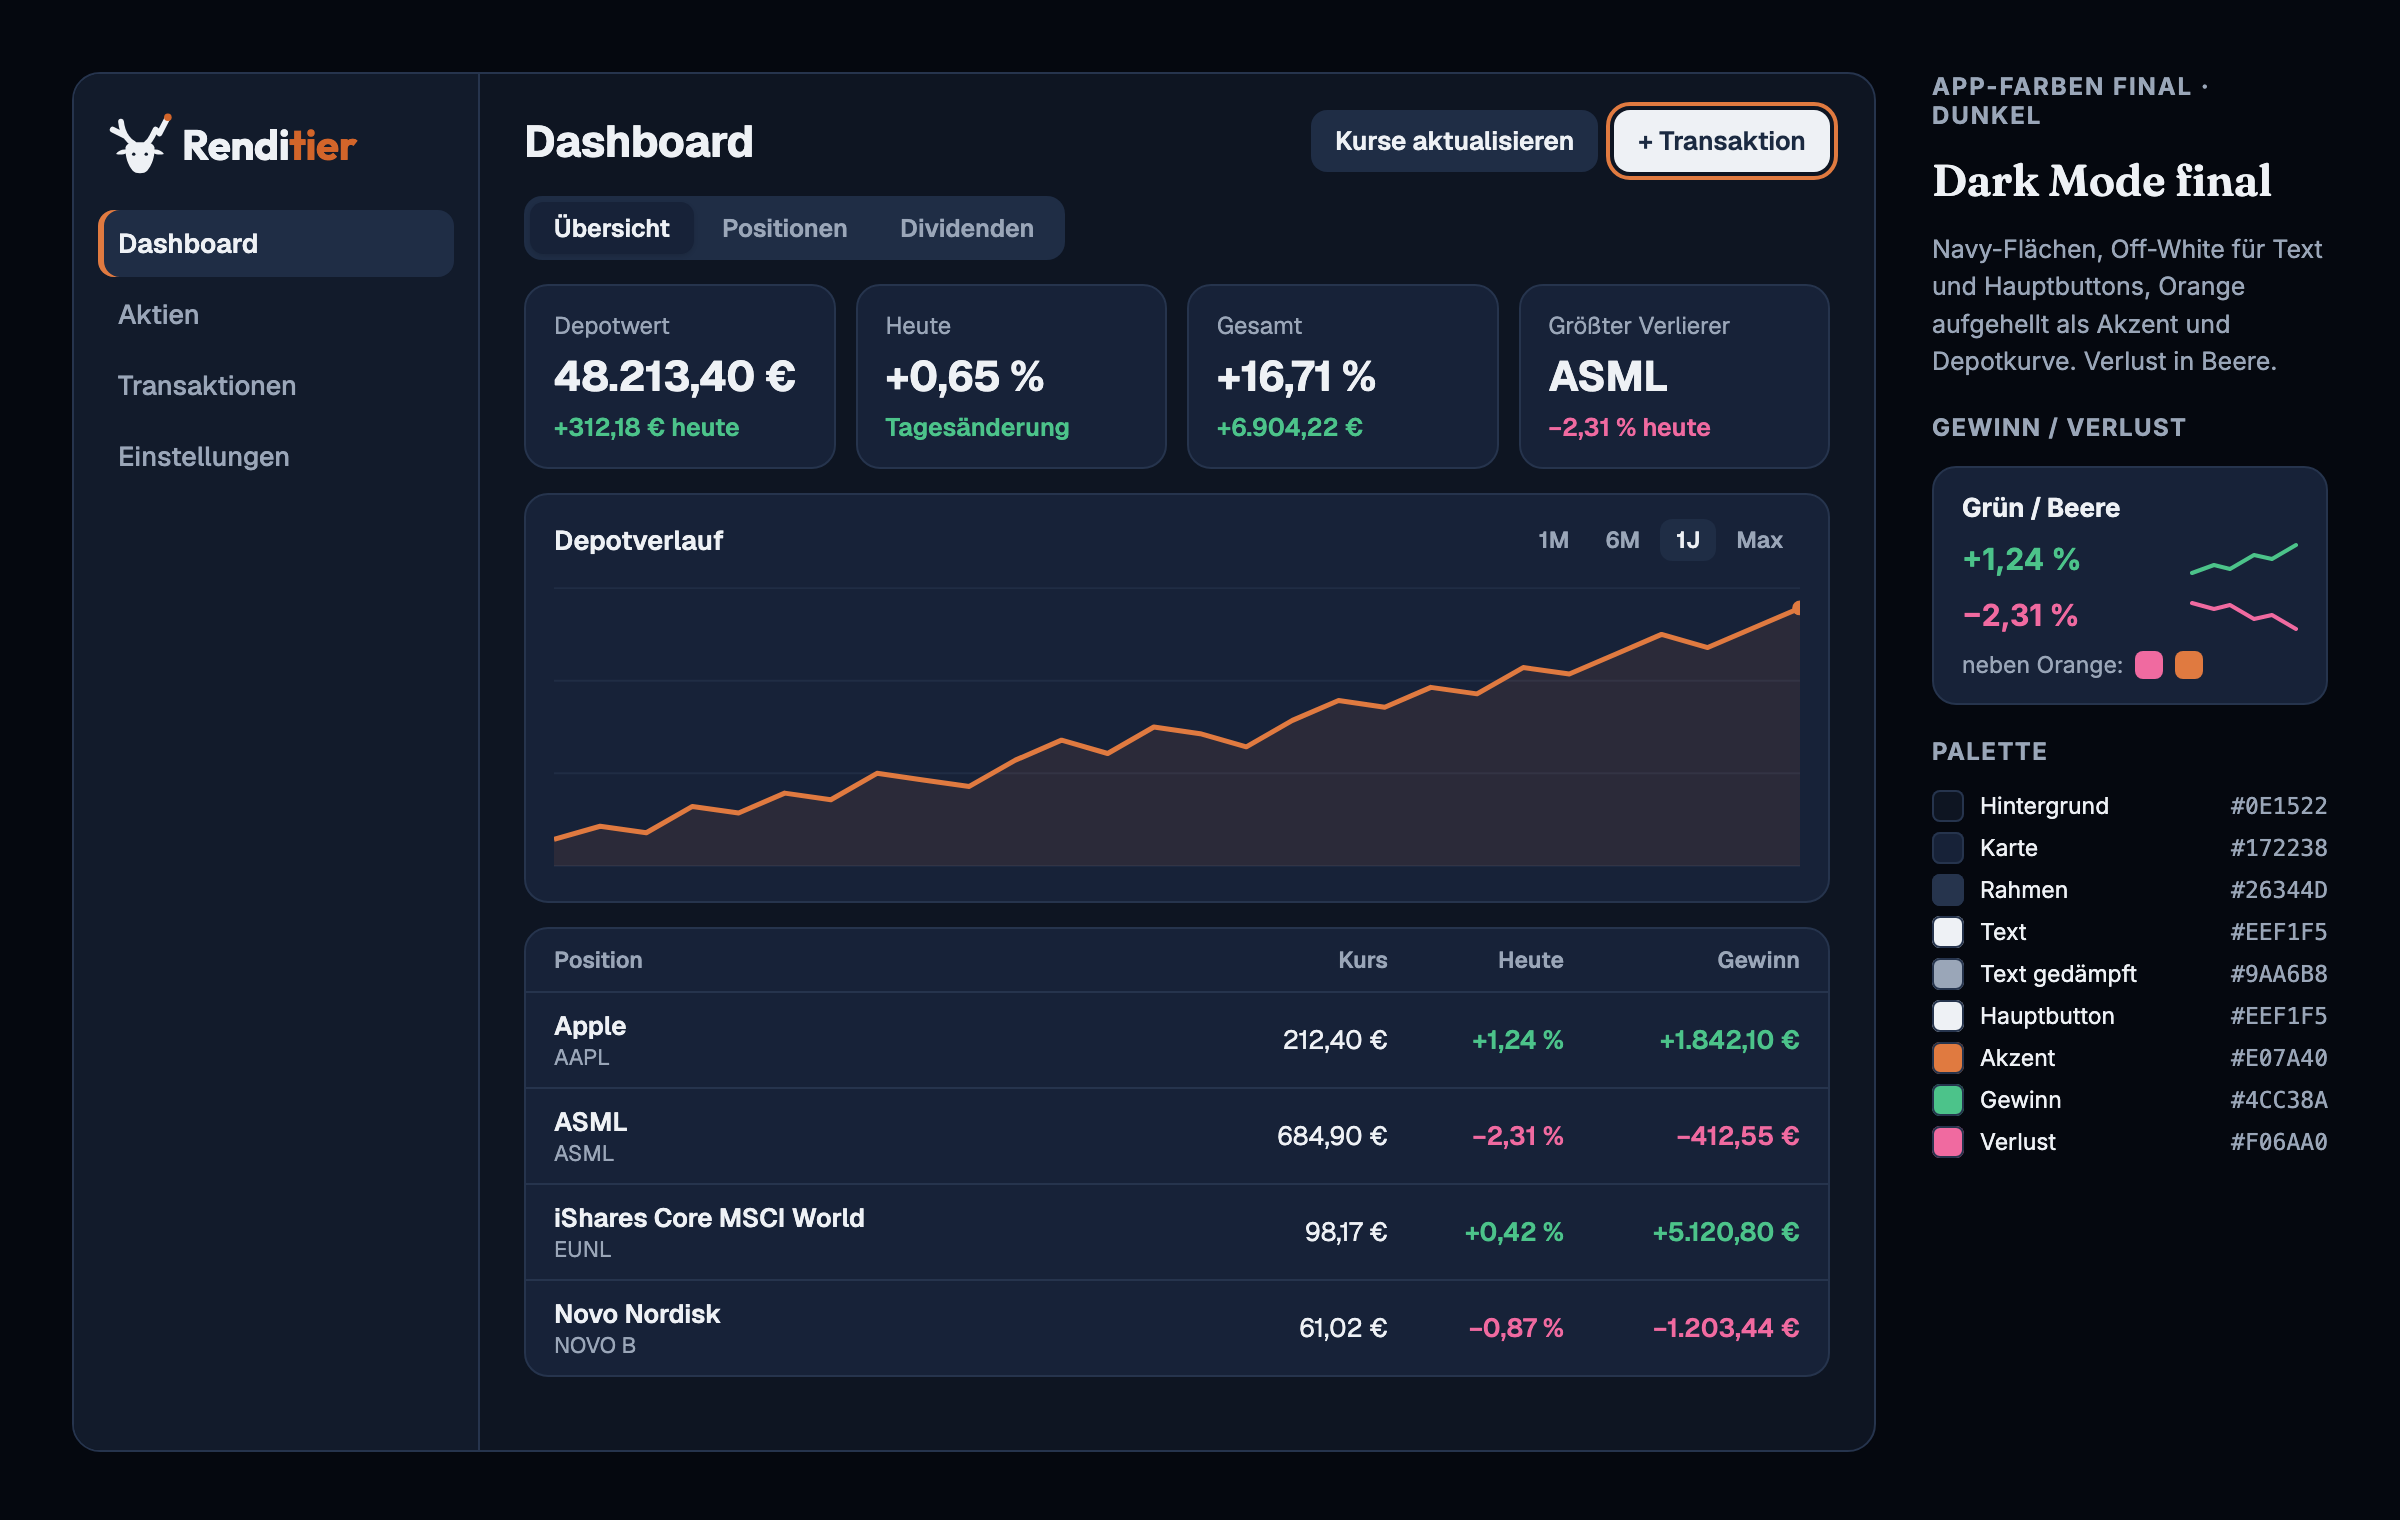
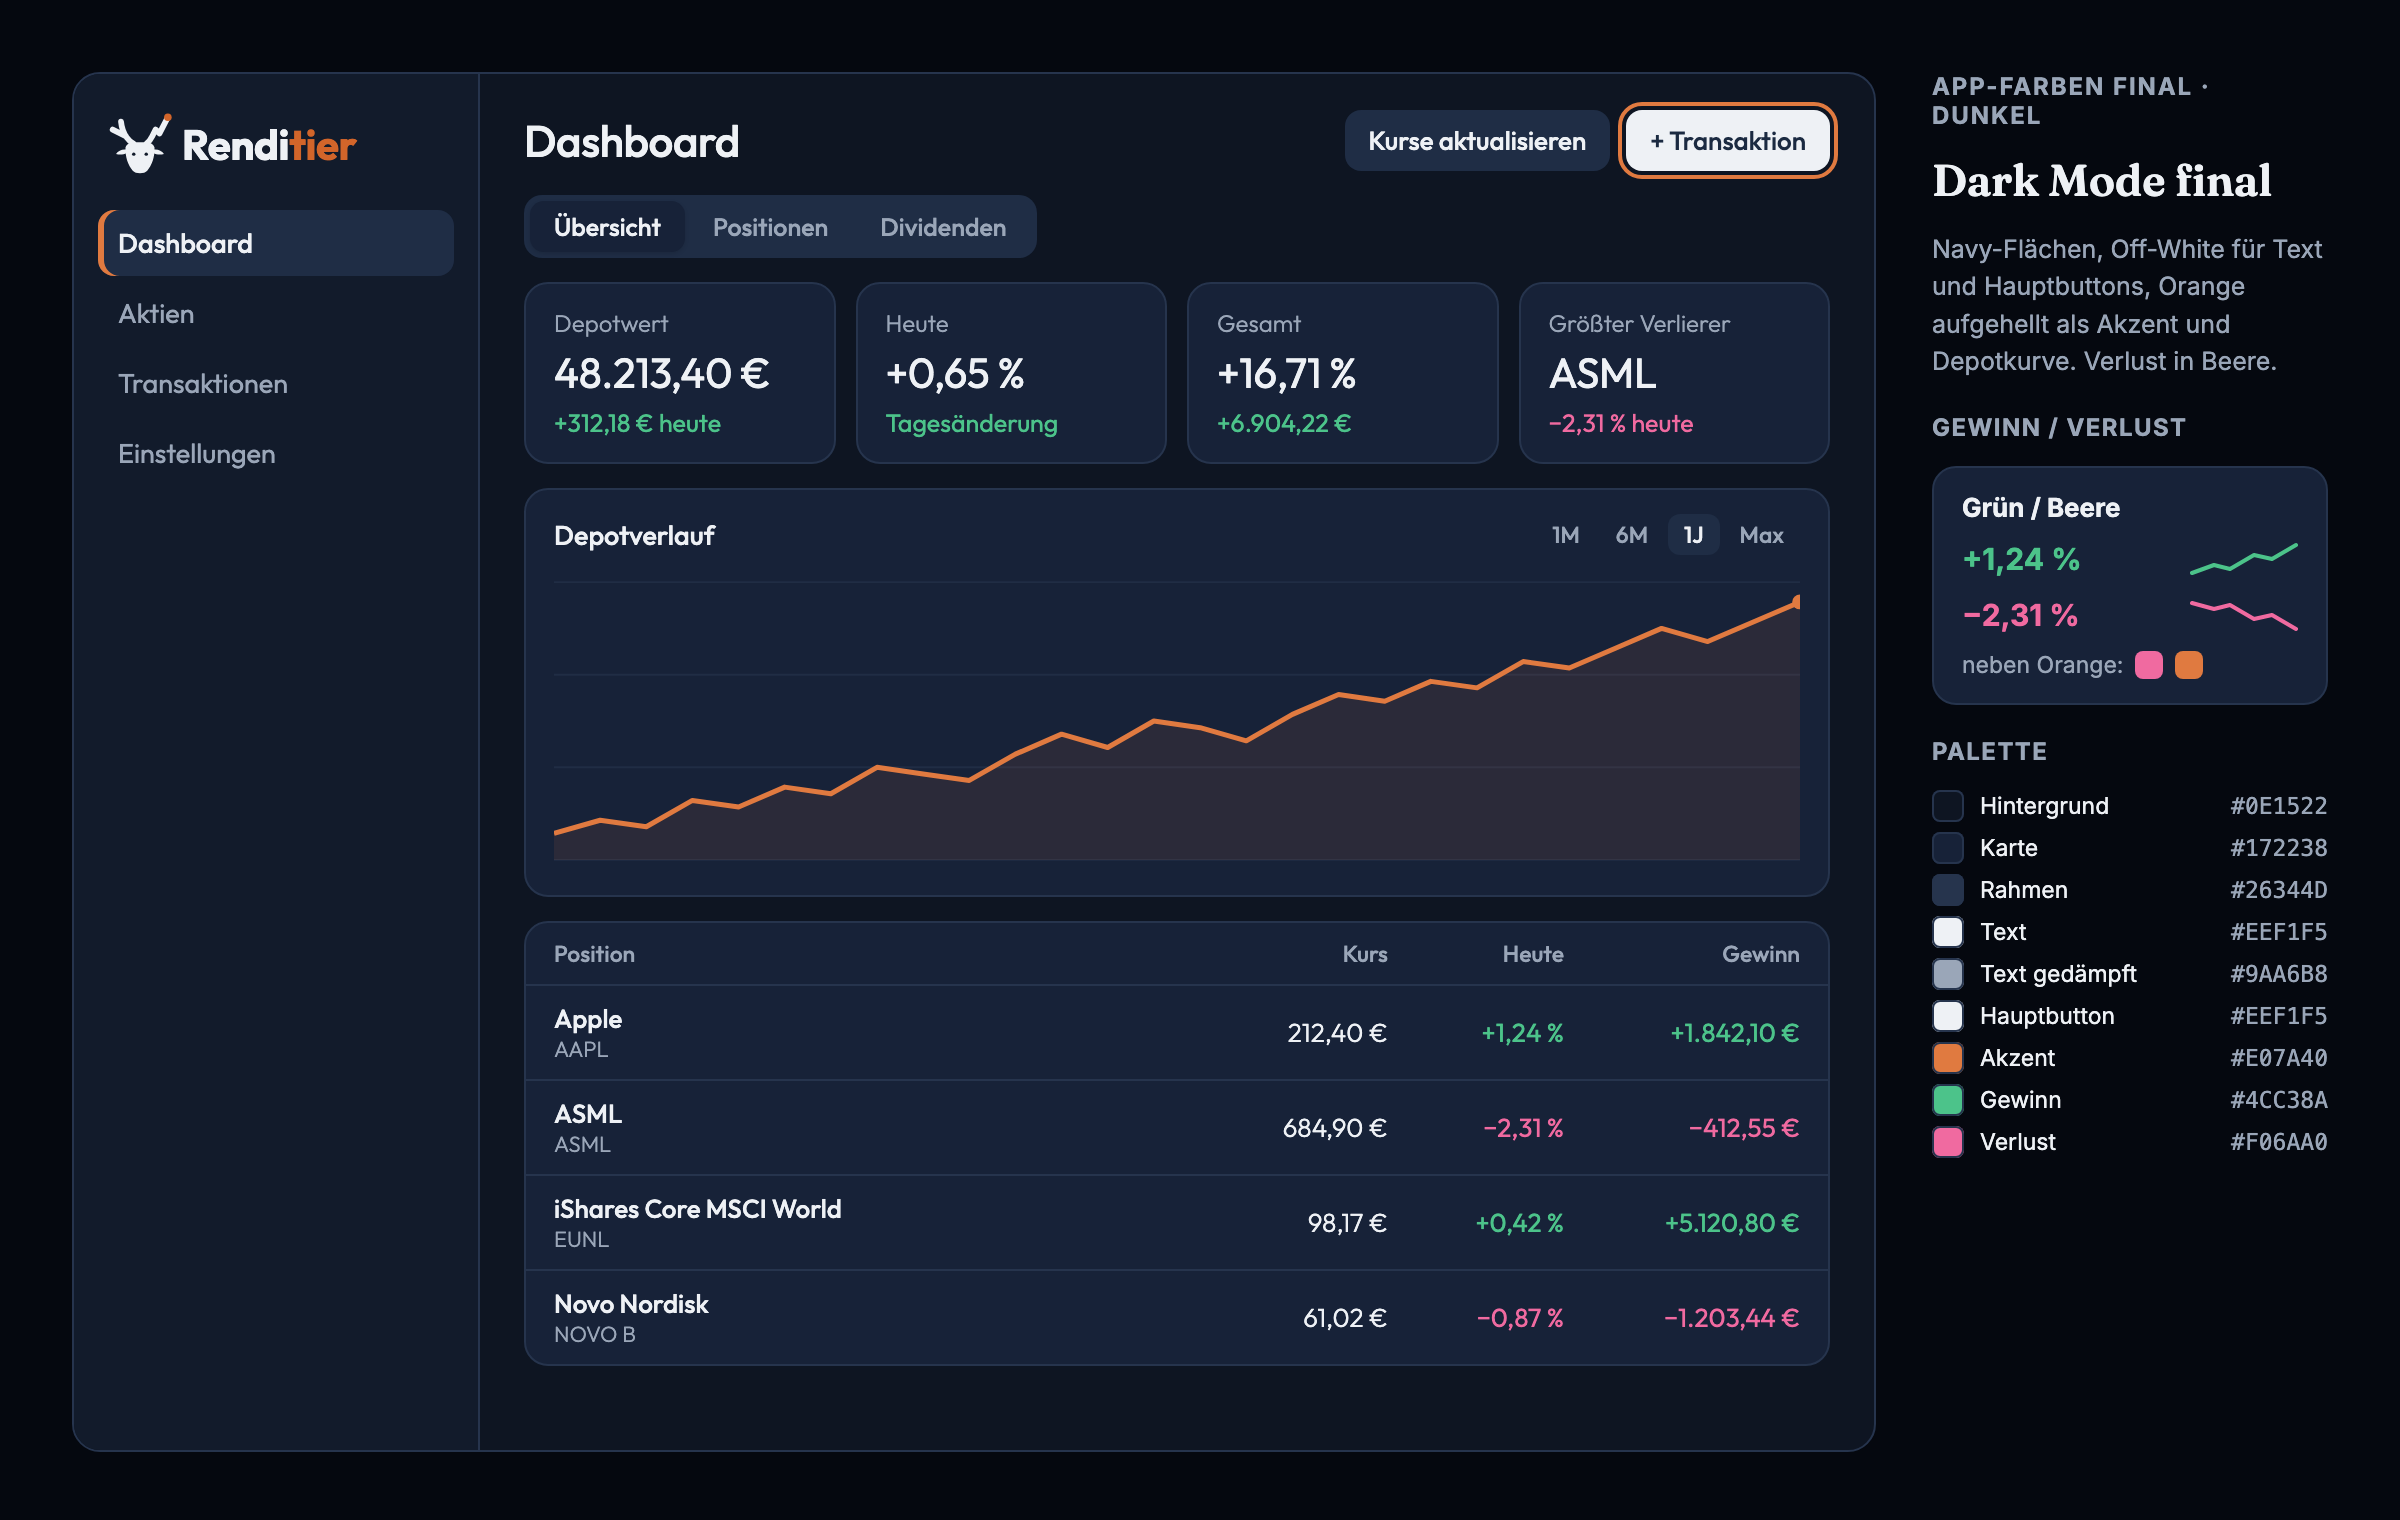
Make Outfit the app font
Outfit carries the UI too, with lighter weights (300 text, 400 numbers
and navigation, 500 emphasis) so the 700 wordmark still stands out.
Picked against Figtree and Geist in full app mockups.

Claude-Session: https://claude.ai/code/session_01Gv2aUyJeePQox3opTLMqiQ

diff --git a/docs/brand/migration.md b/docs/brand/migration.md
@@ -80,11 +80,22 @@ Other places:
 - Look for hard-coded Tailwind colour classes (`teal-`, `emerald-`, `pink-`, `rose-`) once the
   migration is done.
 
-## 4. Wordmark
+## 4. Font and wordmark
 
-The lockups are PNG for now because the wordmark is set in Outfit. For the app, convert "Renditier"
-to outlined paths and ship one SVG lockup (light and dark via `currentColor` for "Rendi"). That avoids
-loading Outfit just for one word.
+The app font changes from Geist to Outfit (see [Typography](styleguide.md#typography)).
+
+- `web/package.json`: replace `@fontsource-variable/geist` with `@fontsource-variable/outfit`.
+- `web/src/index.css`: import it and set `--font-sans: 'Outfit Variable', …`. Give `body`
+  `font-weight: 300`.
+- Go through the font weight classes (`font-medium`, `font-semibold`, `font-bold`, about 30 on `main`
+  today): titles and emphasis become `font-medium` (500), amounts and percentages `font-normal`
+  (400). Nothing above 500.
+- Check muted 12 px text in dark mode. If 300 looks too thin there, use 350 for small text (Outfit is a
+  variable font).
+
+The app then loads Outfit anyway, so the lockup in the header and on the login page is the SVG mark
+plus "Rendi<span>tier</span>" as text in Outfit 700. The PNG lockups in `logo/` are for everything
+outside the app. A vector lockup with the text converted to outlines is still missing for those.
 
 ## 5. Dev shell banner
 

diff --git a/docs/brand/styleguide.md b/docs/brand/styleguide.md
@@ -99,9 +99,17 @@ All text pairs above reach at least 4.5:1 on their background.
 
 ## Typography
 
-| Use | Typeface |
-| --- | --- |
-| Wordmark | Outfit 700, letter spacing -0.01em, "Rendi" in navy (cream on dark), "tier" in orange |
-| UI | Geist (already the app font) |
+Outfit for everything, wordmark and UI. The wordmark stands out through weight and colour: 700
+against at most 500 in the UI, and the orange "tier".
 
-At 700, the geometric strokes of Outfit match the antler.
+| Use | Weight |
+| --- | --- |
+| Wordmark | 700, letter spacing -0.01em, "Rendi" in navy (cream on dark), "tier" in orange |
+| Titles, emphasis, active navigation, buttons | 500 |
+| Numbers (amounts, prices, percentages, KPIs) | 400, always with tabular figures (`font-variant-numeric: tabular-nums`) |
+| Navigation | 400 |
+| Running text, labels | 300 |
+
+Nothing in the UI goes above 500, so the wordmark keeps its weight to itself. At 700, the geometric
+strokes of Outfit match the antler.
+
